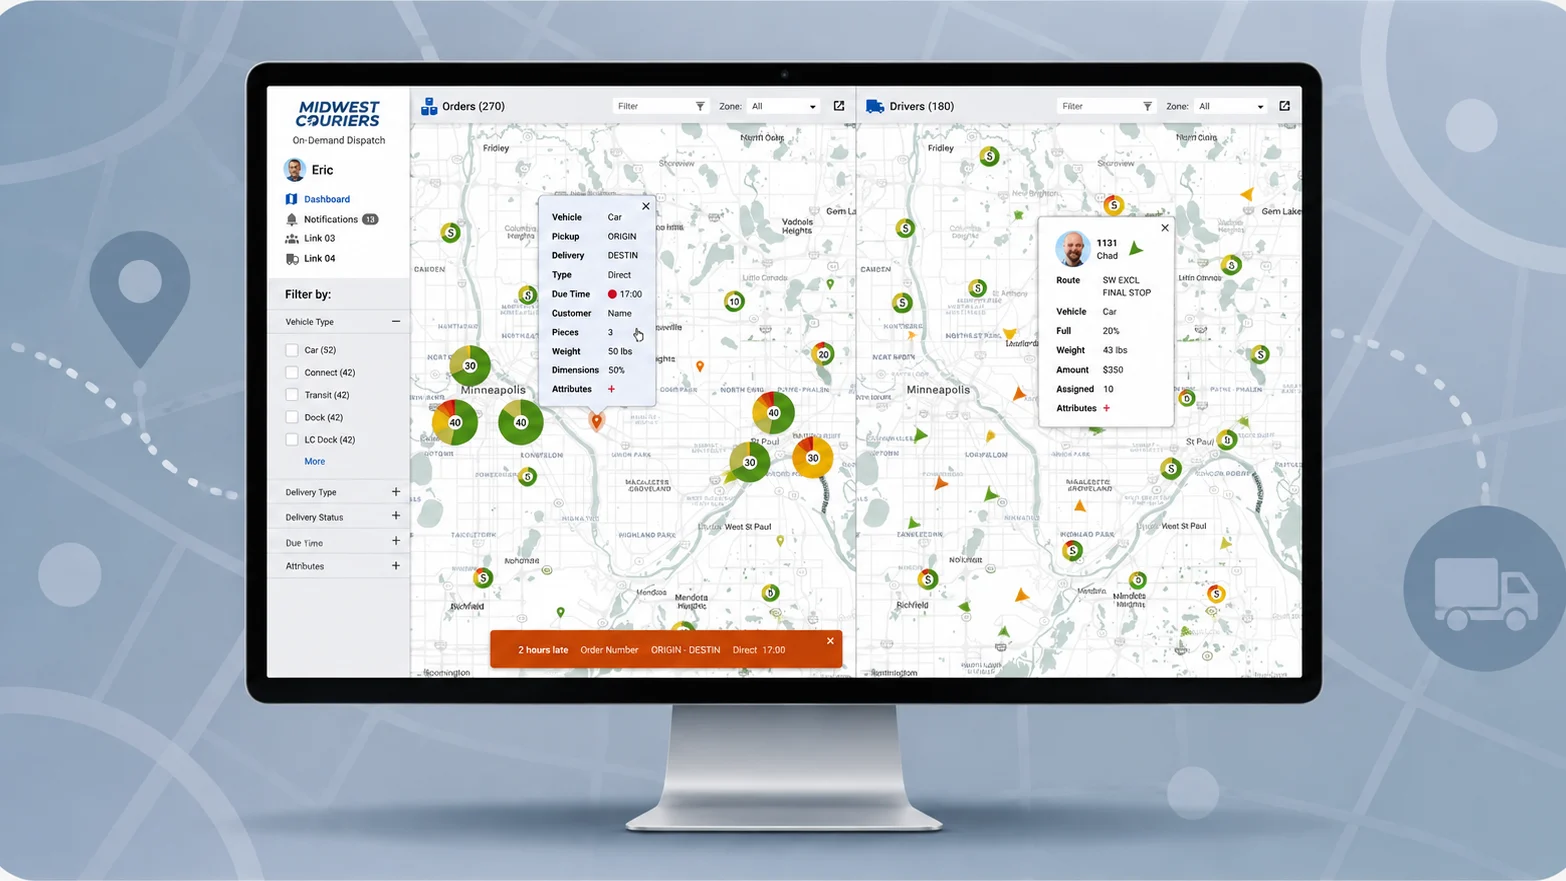
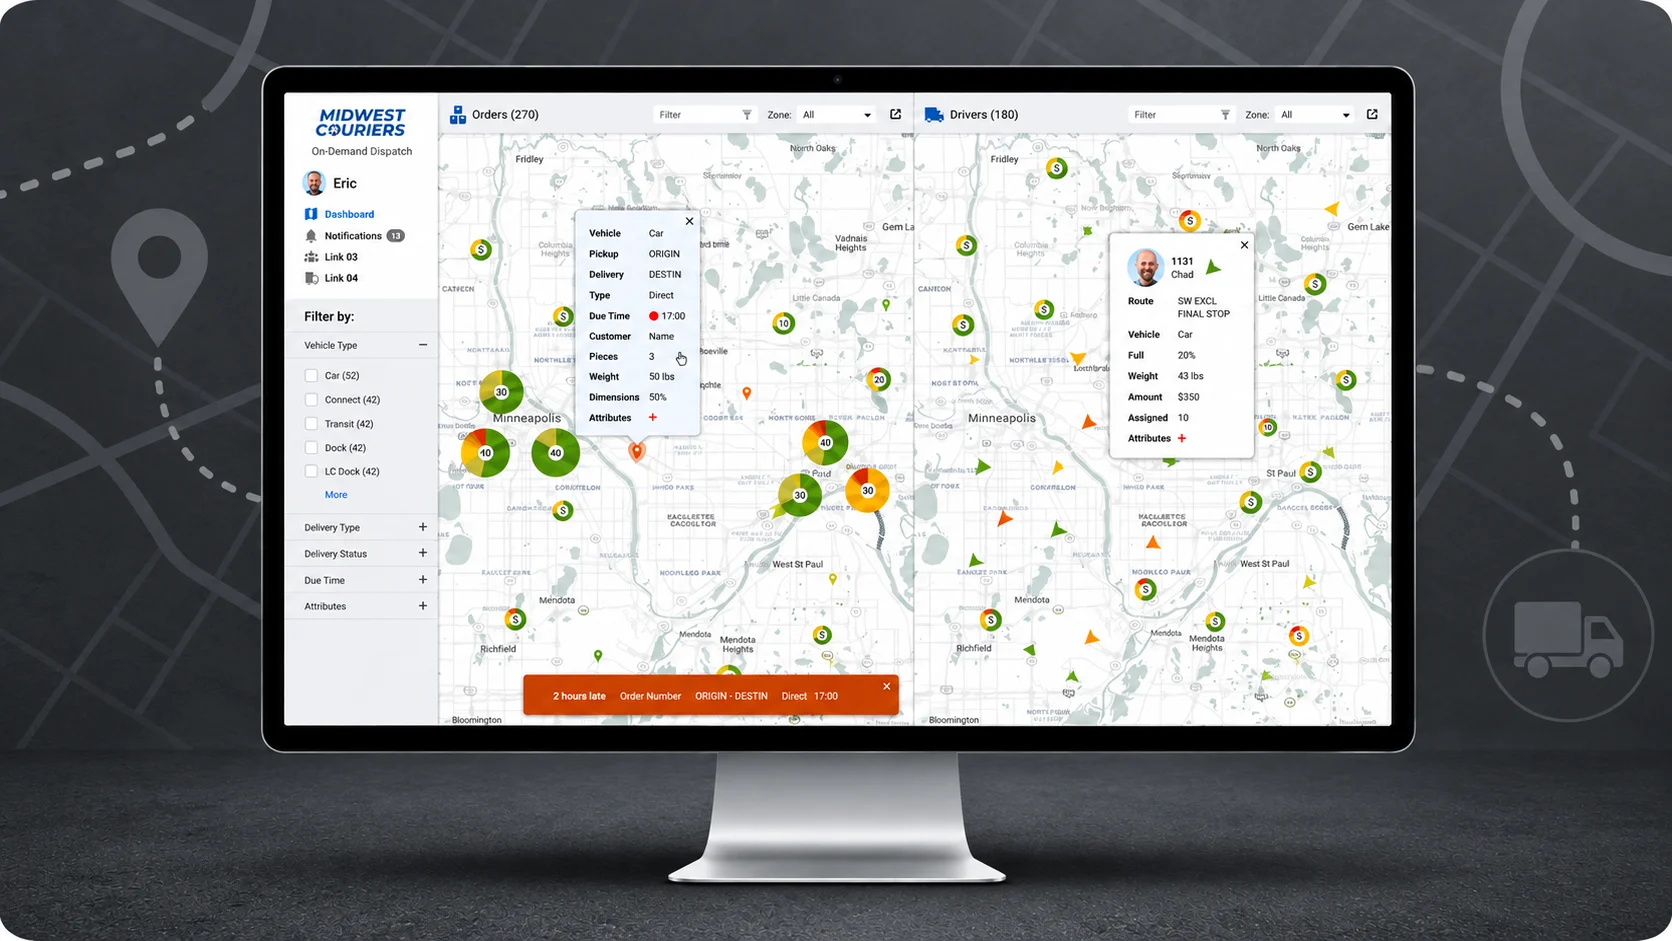
The dispatch thumbnail takes a charcoal ground
Same screen, same composition, new ground: the pale blue-grey goes to
charcoal, which puts the card between the SAP card's dark room and the grant
platform's purple instead of a step lighter than either. 1672x941, 16:9 as
it arrived, so nothing is cropped; encoded at 0.86 through Chromium like the
rest of the artwork.

Attributes move with the file -- 1566x881 to 1672x941 -- and the buster to
v=3. An asset swap under the carve-out in CLAUDE.md: the diff is the image
and the src, width and height of the one tag pointing at it.

  resting.mjs index.html --strict   1435 measurements, before and after
  states.mjs  index.html --strict   344 across 218 state rules, unchanged

diff --git a/index.html b/index.html
@@ -438,7 +438,7 @@
 
           <a class="case-card reveal" href="case-study/dispatch-complexity.html" aria-label="View case study: One real-time view of a 450+ truck fleet">
             <div class="case-thumb">
-              <img decoding="async" loading="lazy" src="img/site/dispatch-hero-01.webp?v=2" alt="One real-time view of a 450+ truck fleet" width="1566" height="881"/>
+              <img decoding="async" loading="lazy" src="img/site/dispatch-hero-01.webp?v=3" alt="One real-time view of a 450+ truck fleet" width="1672" height="941"/>
             </div>
             <h3>One real-time view of a 450+ truck fleet</h3>
             <p class="case-desc">A complicated operation learned from the floor: cards built for the speed of the dispatchers, and the map I was wrong about.</p>
